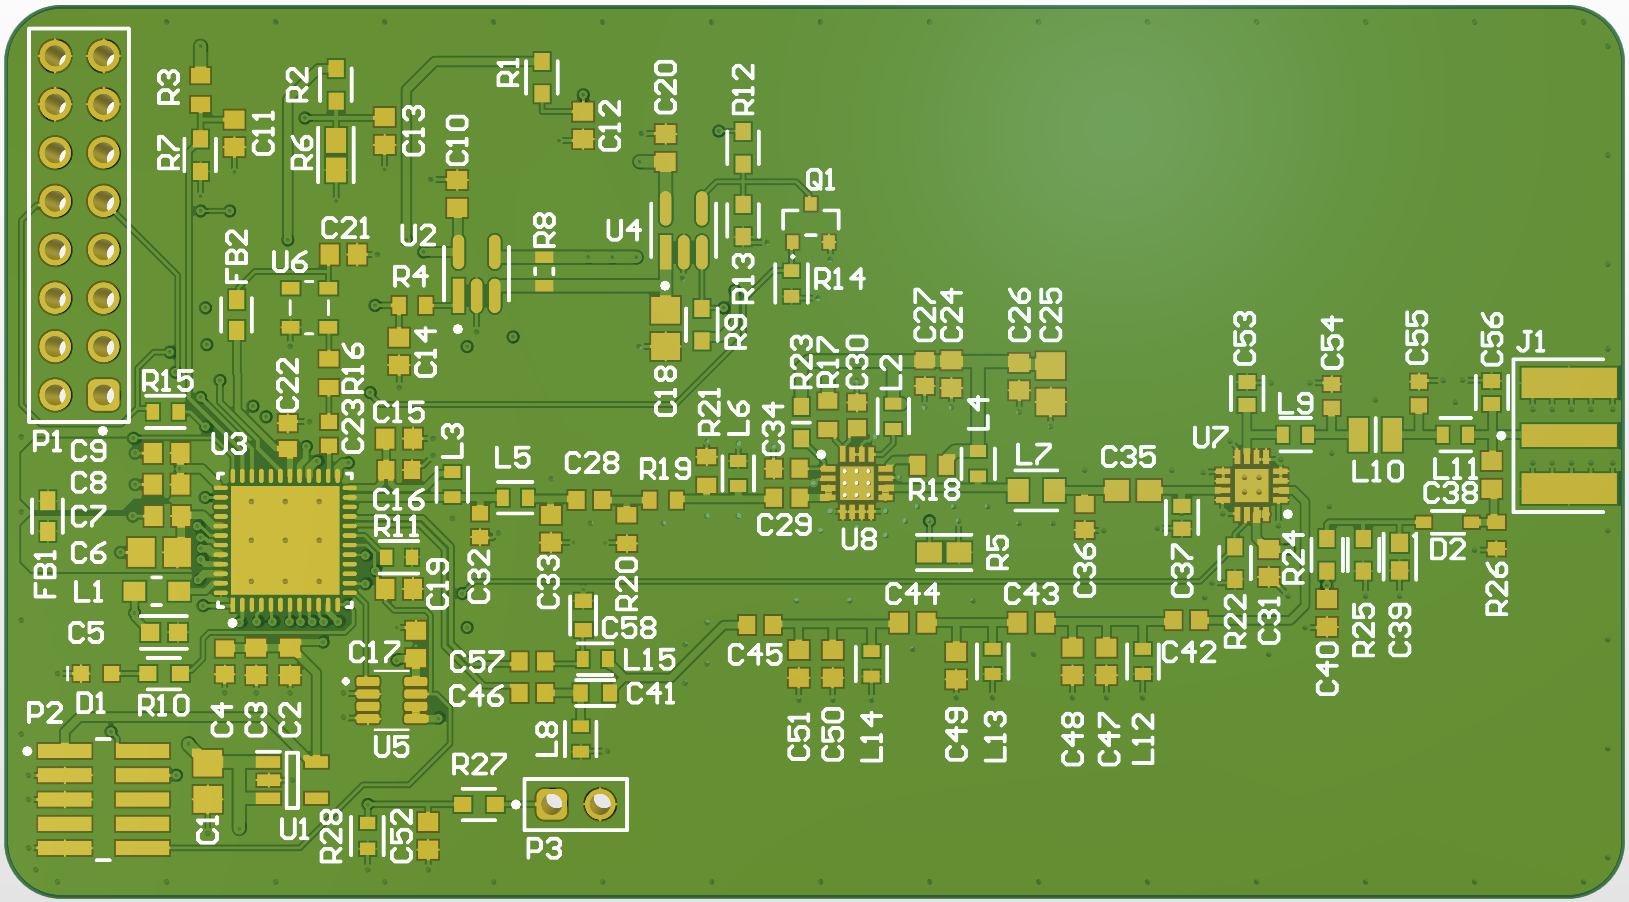
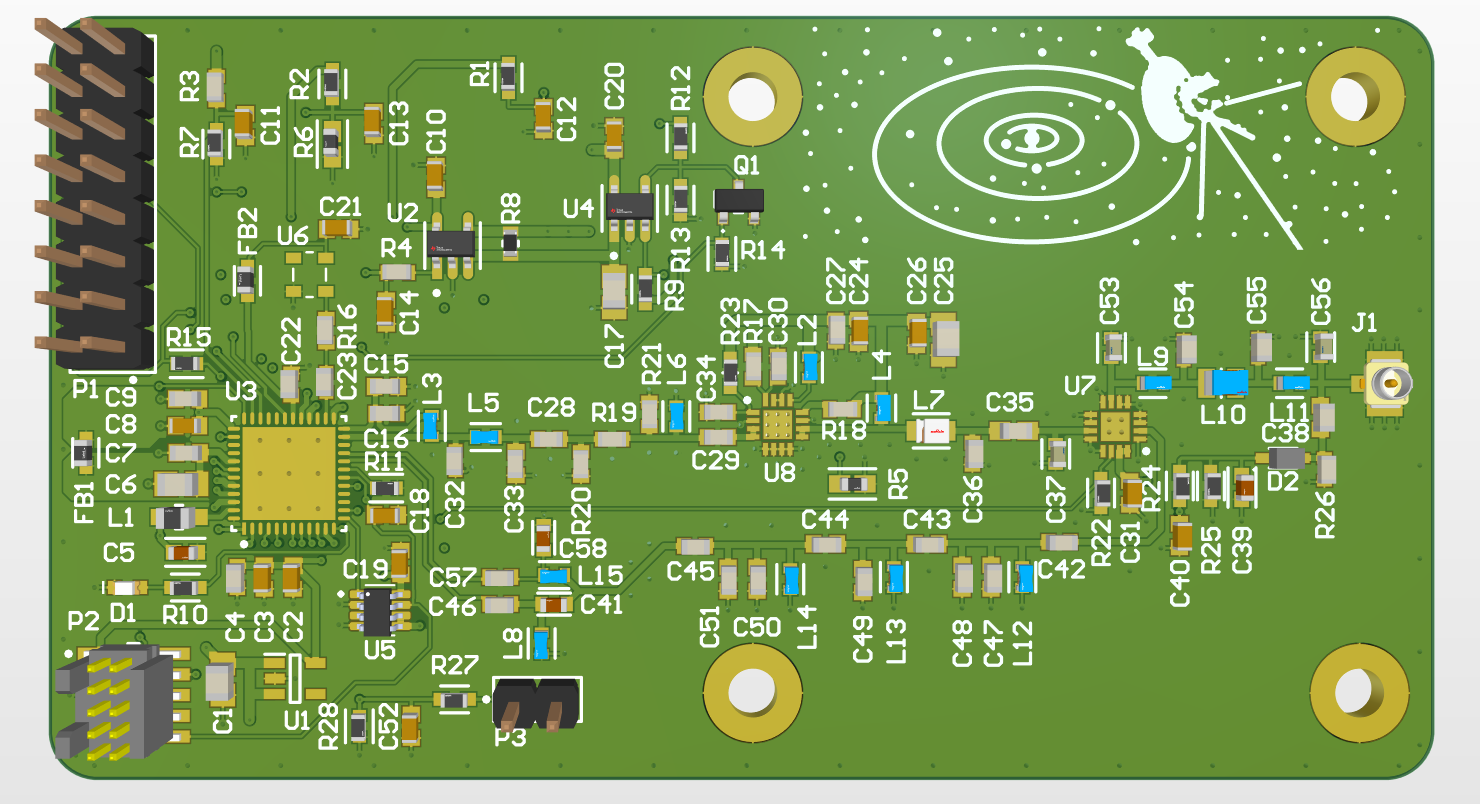
Update layout images: U.FL antenna port, mounting holes, silkscreen art

diff --git a/README.md b/README.md
@@ -25,8 +25,8 @@ QUASAR is an independent project by Rayaan Atif, an Engineering and Physics stud
 | Telemetry | PA current (INA180 + 0.1 Ω shunt), supply voltage, PA and board temperature (NTCs), forward-power detector, antenna isolated-port detector |
 | Safety | PA power through a TPS2065C load switch: off by default, with a hardware TX_INHIBIT line that overrides the MCU |
 | Reliability | MAX6369 external watchdog, status LED |
-| Interfaces | 16-pin OBC header (5 V, I2C, UART, TX_INHIBIT, NRST), 10-pin SWD, antenna-board detect port |
-| PCB | 4-layer, ~85 x 45 mm, JLCPCB JLC04161H-7628 impedance-controlled stack-up |
+| Interfaces | Hirose U.FL antenna port, 16-pin OBC header (5 V, I2C, UART, TX_INHIBIT, NRST), 10-pin SWD, antenna-board detect port |
+| PCB | 4-layer, ~85 x 47 mm, four plated M3 mounting holes, JLCPCB JLC04161H-7628 impedance-controlled stack-up |
 
 ## Schematic
 
@@ -50,6 +50,11 @@ Layout features:
 - Via array under the PA's exposed pad plus a ring of thermal vias for heat spreading
 - Transmit and receive paths kept physically separate
 - Wide, multi-via feed for the PA supply
+- Low-profile U.FL antenna connector with grounded pads and fence vias up to the connector
+- Plated, grounded M3 mounting holes for a thermal and electrical path into the structure
+- Silkscreen artwork: a Voyager-inspired scene on the top, a Golden Record-style plaque on the bottom
+
+![All layers](images/transceiver/trx_all_layers.png)
 
 | Layer 1 - top / RF | Layer 2 - ground |
 |---|---|
